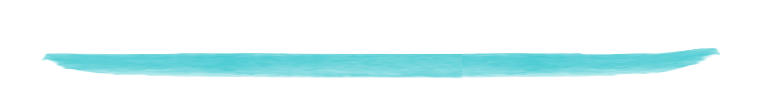
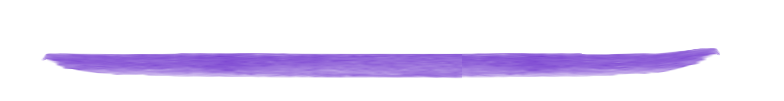
home wip

Changed region(s): [[0.0306, 0.4752, 0.9184, 0.7723]]

diff --git a/src/page/Home.jsx b/src/page/Home.jsx
@@ -31,7 +31,11 @@ import 'swiper/css/pagination';
 import 'swiper/css/effect-coverflow';
 import './VendorCarousel.css';
 import { Pagination, EffectCoverflow, Autoplay } from 'swiper/modules';
+import underline3 from '../assets/underline3.png';
 import underline2 from '../assets/underline2.png';
+import underline from '../assets/underline.png';
+import underline4 from '../assets/underline4.png';
+
 
 // Vendor data for the carousel
 const vendors = [
@@ -107,7 +111,7 @@ function Home() {
         <div id="sec1" className="sec-1 container d-flex justify-content-center flex-column">
           <div className="pt-5 mt-5">
             <div className="section-title text-center mb-1">
-              <h1 className="main-title">ما الذي علي فعله ؟</h1>
+              <h1 className="">ما الذي علي فعله ؟</h1>
             </div>
           </div>
           <div className="mx-auto">
@@ -133,7 +137,7 @@ function Home() {
           </div>
         </div>
 
-        <section className="py-5 rounded text-center service-section" data-aos="fade-up">
+        {/* <section className="py-5 rounded text-center service-section" data-aos="fade-up">
           <h2 className="fw-bold mb-3 service-title">خدمة توفير السكن</h2>
           <p className="mb-4 text-muted fw-bold fs-2 service-description">
             نوفر لك السكن الطلابي المثالي بالقرب من جامعتك، مع بيئة مريحة وآمنة تساعدك على التركيز في دراستك.
@@ -141,60 +145,12 @@ function Home() {
             استمتع بخدمات متكاملة تشمل الإنترنت، الصيانة، والأمان على مدار الساعة.
           </p>
           <a href="#contact" className="btn btn-primary py-md-3 px-md-5 ms-3 custom-btn">ابحث</a>
-        </section>
+        </section> */}
 
-        <section className="py-5 rounded text-center partners-section" data-aos="fade-up">
-          <h2 className="fw-bold mb-3 partners-title">شركاؤنا</h2>
-          <div className="d-flex justify-content-center gap-5">
-            <img src={ColoredLogo} alt="Colored Logo" className="mx-5 partner-logo" />
-            <img src={aswulogo2} alt="ASWU Logo" className="w-25 mx-5 partner-logo" />
-          </div>
-        </section>
-
-        <section id="faq" className="py-5 faq-section" data-aos="fade-up">
-          <h2 className="text-center mb-4 faq-title">Frequently Asked Questions</h2>
-          <div className="accordion custom-accordion" id="faqAccordion">
-            {[
-              { id: 'faq1', question: 'How can I contact customer support?', answer: 'You can contact us via email or our hotline available 24/7.' },
-              { id: 'faq2', question: 'What services do you provide?', answer: 'We provide student housing, transportation, and location-based assistance.' },
-              { id: 'faq3', question: 'How can I book a service?', answer: 'You can book a service through our website or contact our support team.' },
-              { id: 'faq4', question: 'What payment methods do you accept?', answer: 'We accept credit cards, bank transfers, and mobile payments.' }
-            ].map((item) => (
-              <div className="accordion-item" key={item.id} data-aos="fade-up">
-                <h2 className="accordion-header" id={item.id}>
-                  <button className="accordion-button custom-accordion-button" type="button" data-bs-toggle="collapse" data-bs-target={`#${item.id}-collapse`}>
-                    {item.question}
-                  </button>
-                </h2>
-                <div id={`${item.id}-collapse`} className="accordion-collapse collapse" data-bs-parent="#faqAccordion">
-                  <div className="accordion-body">{item.answer}</div>
-                </div>
-              </div>
-            ))}
-          </div>
-        </section>
-
-        <section className="py-5 rounded text-center testimonials-section" data-aos="fade-up">
-          <h2 className="fw-bold mb-3 testimonials-title">أراء المستخدمين</h2>
-          <div className="testimonial-carousel">
-            {[1, 2, 3].map((index) => (
-              <div className="card testimonial-card d-flex flex-row p-1 mb-3" key={index} data-aos="fade-up">
-                <div className="flex-grow-1 ps-0">
-                  <h4 className="card-title mb-1">I have found everything I want here as I am in my country</h4>
-                  <h5 className="text-muted">John Doe - 3 hours ago</h5>
-                  <div className="stars text-warning mt-2" style={{ fontSize: '2rem' }}>★★★★★</div>
-                </div>
-                <div className="user-info ms-3">
-                  <img src={user} alt="User" className="rounded-circle user-avatar" width="100" height="100" />
-                </div>
-              </div>
-            ))}
-          </div>
-        </section>
-
-        <div className="py-5 container">
-          <h2 className="text-primary ms-3 mb-2 h-100" style={{textAlign: "right"}}>مقدمو الخدمة الأكثر طلباً</h2>
-          <img src="/assets/svg/underline.png" alt="" style={{width: "23rem"}} />
+        
+<div className="py-5 container">
+          <h2 className="sections-title ms-3 mb-4" style={{textAlign: "right"}}>مقدمو الخدمة الأكثر طلباً</h2>
+          <img src={underline} alt="" className="d-block ms-auto" style={{width: "23rem"}} />
           <Swiper
             modules={[EffectCoverflow, Pagination, Autoplay]}
             effect="coverflow"
@@ -236,6 +192,57 @@ function Home() {
             ))}
           </Swiper>
         </div>
+
+        <section className="py-5 rounded text-center partners-section" data-aos="fade-up">
+          <h2 className="fw-bold mb-2 sections-title">شركاؤنا</h2>
+          <img src={underline3} alt="" className=" ms-auto" style={{width: "12rem"}} />
+          <div className="d-flex justify-content-center gap-5">
+            <img src={ColoredLogo} alt="Colored Logo" className="mx-5 partner-logo mt-2" style={{width: "20rem"}} />
+            <img src={aswulogo2} alt="ASWU Logo" className="mx-5 partner-logo mt-3" style={{width: "22rem"}} />
+          </div>
+        </section>
+{/* 
+        <section id="faq" className="py-5 faq-section" data-aos="fade-up">
+          <h2 className="text-center mb-4 faq-title">Frequently Asked Questions</h2>
+          <div className="accordion custom-accordion" id="faqAccordion">
+            {[
+              { id: 'faq1', question: 'How can I contact customer support?', answer: 'You can contact us via email or our hotline available 24/7.' },
+              { id: 'faq2', question: 'What services do you provide?', answer: 'We provide student housing, transportation, and location-based assistance.' },
+              { id: 'faq3', question: 'How can I book a service?', answer: 'You can book a service through our website or contact our support team.' },
+              { id: 'faq4', question: 'What payment methods do you accept?', answer: 'We accept credit cards, bank transfers, and mobile payments.' }
+            ].map((item) => (
+              <div className="accordion-item" key={item.id} data-aos="fade-up">
+                <h2 className="accordion-header" id={item.id}>
+                  <button className="accordion-button custom-accordion-button" type="button" data-bs-toggle="collapse" data-bs-target={`#${item.id}-collapse`}>
+                    {item.question}
+                  </button>
+                </h2>
+                <div id={`${item.id}-collapse`} className="accordion-collapse collapse" data-bs-parent="#faqAccordion">
+                  <div className="accordion-body">{item.answer}</div>
+                </div>
+              </div>
+            ))}
+          </div>
+        </section> */}
+
+        <section className="py-5 rounded text-center testimonials-section" data-aos="fade-up">
+          <h2 className="fw-bold mb-3 testimonials-title">أراء المستخدمين</h2>
+          <div className="testimonial-carousel">
+            {[1, 2, 3].map((index) => (
+              <div className="card testimonial-card d-flex flex-row p-1 mb-3" key={index} data-aos="fade-up">
+                <div className="flex-grow-1 ps-0">
+                  <h4 className="card-title mb-1">I have found everything I want here as I am in my country</h4>
+                  <h5 className="text-muted">John Doe - 3 hours ago</h5>
+                  <div className="stars text-warning mt-2" style={{ fontSize: '2rem' }}>★★★★★</div>
+                </div>
+                <div className="user-info ms-3">
+                  <img src={user} alt="User" className="rounded-circle user-avatar" width="100" height="100" />
+                </div>
+              </div>
+            ))}
+          </div>
+        </section>
+
 
         {/* Contact Section with Image */}
         <div className="container" dir="rtl">

diff --git a/src/page/Home.css b/src/page/Home.css
@@ -1,7 +1,11 @@
 :root {
-    --main-color: #33CCCC;
+    --main-color: rgba(152, 83, 255);
     /* --primary-color: #24262B; */
 }
+
+.custom-color {
+  color: rgb(195, 154, 255);
+  }
 
 
 /* تحسين الألوان العامة */
@@ -34,11 +38,11 @@
     padding: 30px;
   }
   
-  .main-title {
+  /* .main-title {
     font-size: 6rem;
     color: #2c3e50;
     font-weight: lighter;
-  }
+  } */
   
   .service-title {
     font-size: 2rem;
@@ -121,15 +125,26 @@
   /* تحسينات إضافية */
   .section-title h1 {
     font-size: 2.5rem;
-    background: linear-gradient(45deg, #2193b0, #6dd5ed);
+    /* background: linear-gradient(45deg, #2193b0, #6dd5ed); */
     -webkit-background-clip: text;
-    -webkit-text-fill-color: #33CCCC;
+    -webkit-text-fill-color: rgba(152, 83, 255);
     transition: transform 0.3s ease;
   }
   
   .section-title h1:hover {
     transform: scale(1.05);
   }
+  .sections-title {
+    font-size: 2rem;
+    /* background: linear-gradient(45deg, #2193b0, #6dd5ed); */
+    -webkit-background-clip: text;
+    -webkit-text-fill-color: rgba(152, 83, 255);
+    transition: transform 0.3s ease;
+  }
+  
+  /* .sections-title:hover {
+    transform: scale(1.05);
+  } */
   
   .hover-effect {
     transition: all 0.3s ease;
@@ -204,8 +219,7 @@
   }
   
   .custom-input:focus {
-    border-color: #2193b0;
-    background-color: white;
+    background-color: rgba(152, 83, 255);
   }
   
   /* Add smooth scroll behavior */
@@ -249,7 +263,7 @@
   }
 
   .primary-btn {
-    background: #33CCCC;
+    background-color: rgba(152, 83, 255);
     color: white;
     border: none;
     padding: 12px 25px;
@@ -261,11 +275,11 @@
   }
   
   .primary-btn:hover {
-    background-color: #2193b0;
+    background-color: rgba(152, 83, 255);
   }
 
   .custom-btn {
-    background: #33CCCC;
+    background-color: rgba(144, 75, 255, 0.6);
     color: white;
     border: none;
     padding: 12px 25px;
@@ -275,8 +289,10 @@
     transition: background-color 0.3s;
     font-size: 1.1rem;
     padding: 20px 25px;
+    
+    
   }
   
   .custom-btn:hover {
-    background-color: #2193b0;
+    background-color: rgba(152, 83, 255, 0.8);
   }

diff --git a/src/Components/NavBar.css b/src/Components/NavBar.css
@@ -43,9 +43,9 @@
       border-radius: 5px;
     }
     
-    .nav-link:hover, .nav-link:active {
+    /* .nav-link:hover, .nav-link:active {
       background-color: rgba(52, 152, 219, 0.2) !important;
-    }
+    } */
   }
   
   /* شريط التنقل الشفاف (في الأعلى) */
@@ -84,7 +84,7 @@
   }
   
   .nav-link:hover {
-    color: #3498db !important;
+    color: rgba(152, 83, 255) !important;
     background-color: transparent !important;
     text-decoration: none !important;
   }
@@ -92,7 +92,7 @@
   /* إزالة المربع الأزرق عند تحديد الرابط النشط */
   .nav-link.active {
     background-color: transparent !important;
-    color: #3498db !important;
+    color: rgba(152, 83, 255) !important;
     text-decoration: none !important;
   }
   
@@ -115,7 +115,7 @@
   }
   
   .dropdown-item:hover {
-    background-color: #2980b9 !important;
+    background-color: rgba(152, 83, 255) !important;
     color: #ecf0f1 !important;
   }
   

diff --git a/src/Components/Haeder.jsx b/src/Components/Haeder.jsx
@@ -30,7 +30,7 @@ function Haeder() {
           <p className="text-white header-desc mb-4">من بيتك وبضغطة زرار</p>
           <div className="d-flex justify-content-end gap-3 mt-5">
             <div className="log d-flex align-items-center">
-              <span className="text-white"> هل لديك حساب بالفعل ؟ <a href="/login" className="text-primary text-decoration-none">سجل دخولك</a></span>
+              <span className="text-white "> هل لديك حساب بالفعل ؟ <a href="/login" className="text-decoration-none custom-color">سجل دخولك</a></span>
             </div>
             <button onClick={() => window.location.href = '/register'} className="custom-btn" tabIndex="0">احجز خدمتك دلوقتي</button>
           </div>

diff --git a/src/Components/LoadingBar.css b/src/Components/LoadingBar.css
@@ -16,7 +16,7 @@
 
 .loading-bar {
   height: 100%;
-  background: linear-gradient(90deg, #3498db, #2980b9);
-  box-shadow: 0 0 10px rgba(52, 152, 219, 0.5);
+  background: linear-gradient(90deg, rgba(152, 83, 255), rgba(152, 83, 255));
+  box-shadow: 0 0 10px rgba(167, 76, 156, 0.5);
   border-radius: 0 2px 2px 0;
 }
